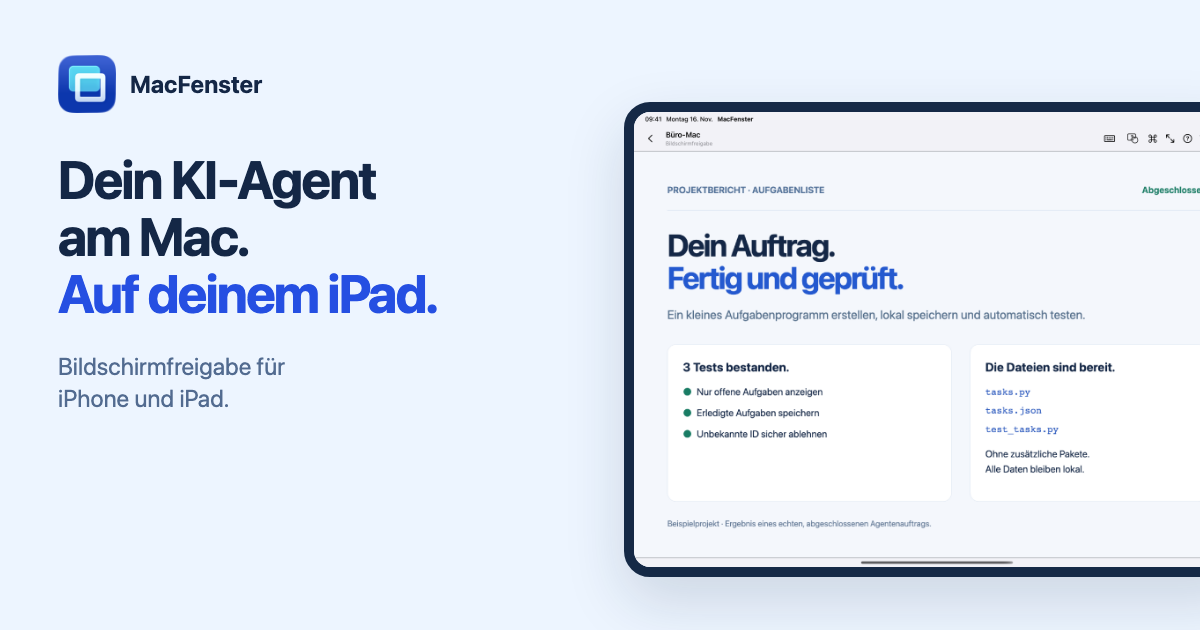
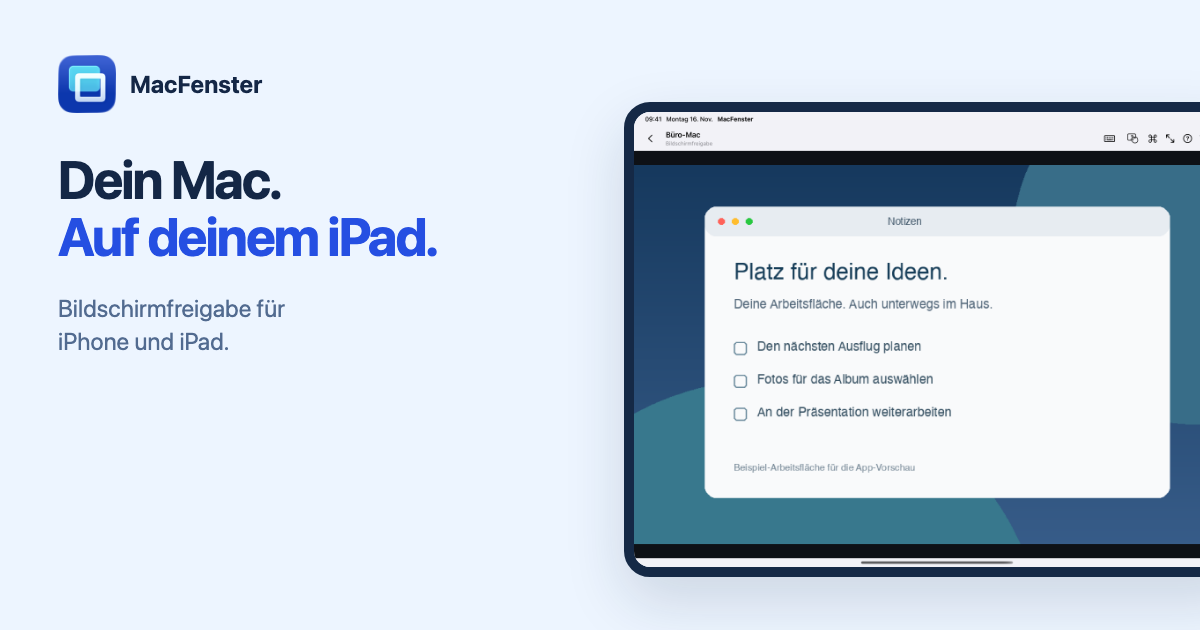
Focus MacFenster messaging on simple screen sharing

Changed region(s): [[0.5242, 0.2413, 1.0, 0.9048], [0.0308, 0.2413, 0.37, 0.6635], [0.8017, 0.573, 0.925, 0.754]]

diff --git a/index.html b/index.html
@@ -4,16 +4,16 @@
   <meta charset="utf-8">
   <meta name="viewport" content="width=device-width,initial-scale=1">
   <meta name="robots" content="noindex,nofollow">
-  <meta name="description" content="Deinen KI-Agenten am Mac im Blick behalten und seine Oberfläche bedienen – über Bildschirmfreigabe auf iPad und iPhone, direkt im gemeinsamen lokalen Netzwerk.">
-  <title>MacFenster – Dein KI-Agent am Mac. Auf deinem iPad.</title>
+  <meta name="description" content="Deinen Mac auf iPad und iPhone bedienen. MacFenster verbindet sich direkt mit der eingebauten Bildschirmfreigabe – im gemeinsamen lokalen Netzwerk.">
+  <title>MacFenster – Bildschirmfreigabe auf iPad und iPhone</title>
   <link rel="icon" href="assets/portal.png" type="image/png">
   <link rel="stylesheet" href="styles.css">
   <link rel="canonical" href="https://nature0ne.github.io/macfenster-website/">
   <meta property="og:type" content="website">
   <meta property="og:url" content="https://nature0ne.github.io/macfenster-website/">
-  <meta property="og:title" content="MacFenster – Dein KI-Agent am Mac. Auf deinem iPad.">
-  <meta property="og:description" content="Bediene deinen Mac mit iPad und iPhone – per Bildschirmfreigabe im selben Netzwerk.">
-  <meta property="og:image" content="https://nature0ne.github.io/macfenster-website/assets/share-card.png">
+  <meta property="og:title" content="MacFenster – Dein Mac auf iPad und iPhone.">
+  <meta property="og:description" content="Einfache Bildschirmfreigabe für deinen Mac. Direkt im selben Netzwerk mit Touch, Trackpad und Tastatur bedienen.">
+  <meta property="og:image" content="https://nature0ne.github.io/macfenster-website/assets/share-screen-sharing.png">
   <meta name="twitter:card" content="summary_large_image">
 </head>
 <body>
@@ -24,11 +24,11 @@
   </header>
 
   <main id="inhalt">
-    <section class="hero hero-ai wrap" aria-labelledby="hero-title">
+    <section class="hero hero-showcase wrap" aria-labelledby="hero-title">
       <div class="hero-copy">
         <p class="eyebrow"><span class="small-window" aria-hidden="true"></span>Bildschirmfreigabe für iPhone &amp; iPad</p>
-        <h1 id="hero-title">Dein KI-Agent<br>am Mac.<br><span>Auf deinem iPad.</span></h1>
-        <p class="lead">Dein Agent läuft am Mac. Lies Ergebnisse und bediene seine Oberfläche vom iPad oder iPhone – per Bildschirmfreigabe im selben Netzwerk.</p>
+        <h1 id="hero-title">Dein Mac.<br>Auf deinem<br> <span>iPad.</span></h1>
+        <p class="lead">Bediene deinen Mac vom iPad oder iPhone. Direkt mit seiner eingebauten Bildschirmfreigabe – im gemeinsamen lokalen Netzwerk.</p>
         <div class="hero-actions"><a class="button" href="#einrichten">So verbindest du dich <span aria-hidden="true">↓</span></a><a class="text-link" href="#arbeitsflaeche">Die Arbeitsfläche entdecken <span aria-hidden="true">↗</span></a></div>
         <p class="availability"><span aria-hidden="true"></span>App-Store-Veröffentlichung in Vorbereitung</p>
       </div>
@@ -42,7 +42,7 @@
     <div class="principles wrap" aria-label="Direkte Verbindung ohne zusätzlichen Dienst"><p>Die eingebaute<br><strong>Mac-Bildschirmfreigabe.</strong></p><p>Dein vorhandenes<br><strong>Mac-Benutzerkonto.</strong></p><p>Keine zusätzliche Mac-App.<br><strong>Kein Abo.</strong></p></div>
 
     <section class="workspace wrap" id="arbeitsflaeche" aria-labelledby="workspace-title">
-      <div><p class="eyebrow">Deine Apps laufen weiter am Mac</p><h2 id="workspace-title">Mehr Platz.<br>Auch für Ideen.</h2></div>
+      <div><p class="eyebrow">Mehr als ein kleineres Bild</p><h2 id="workspace-title">Ein Fenster.<br>Passend zu dir.</h2></div>
       <div class="workspace-copy"><p class="large-copy">Eine gut lesbare Arbeitsfläche auf deinem iPad. Oder ein Mac-Desktop, der sich mit deinem iPhone dreht.</p><p>Auf unterstützten Macs öffnet MacFenster einen nativen virtuellen Bildschirm. Er passt sich an die sichtbare Fläche deines Geräts an. Der physische Mac-Bildschirm bleibt separat.</p><p>Mit <strong>„Physischer Bildschirm“</strong> wechselst du zurück. Beim Umschalten verbindet sich die App kurz neu.</p><div class="window-pair" aria-hidden="true"><span></span><span></span></div></div>
     </section>
 
@@ -58,7 +58,6 @@
 
     <section class="questions wrap" aria-labelledby="questions-title"><div><p class="eyebrow">Gut zu wissen</p><h2 id="questions-title">Bevor du loslegst.</h2><p class="questions-intro">Noch eine Frage?<br><a class="text-link" href="https://nature0ne.github.io/macfenster-website/support.html">Zum Support <span aria-hidden="true">↗</span></a></p></div><div class="answers">
       <details><summary>Was brauche ich dafür?</summary><p>Ein iPhone oder iPad mit iOS beziehungsweise iPadOS 18 oder neuer und einen Mac mit aktivierter Bildschirmfreigabe. Beide Geräte müssen im selben lokalen Netzwerk sein. Videoübertragung und virtuelle Bildschirme erfordern Unterstützung durch den Mac. Die App-Oberfläche ist auf Deutsch.</p></details>
-      <details><summary>Ist in MacFenster ein KI-Agent enthalten?</summary><p>Dein KI-Agent läuft als eigenes Programm auf deinem Mac. MacFenster zeigt und bedient dessen Oberfläche über Bildschirmfreigabe, genau wie andere Mac-Apps. Ein KI-Dienst oder eine spezielle Agenten-Anbindung ist nicht enthalten.</p></details>
       <details><summary>Kann ich mich auch von unterwegs verbinden?</summary><p>MacFenster ist für das gemeinsame lokale Netzwerk gedacht. Ein Internetzugriff oder eine Verbindung zwischen verschiedenen Netzwerken wird nicht eingerichtet.</p></details>
       <details><summary>Wie werden meine Daten behandelt?</summary><p>Die Verbindung geht direkt zu deinem Mac. MacFenster zeichnet deinen Bildschirm nicht auf. Passwortspeicherung ist freiwillig und an dein Gerät gebunden. Der klassische ARD/RFB-Rückfall verschlüsselt nicht den gesamten Datenstrom – verwende deshalb ein vertrauenswürdiges Netzwerk.</p></details>
       <details><summary>Was passiert, wenn ich die App verlasse?</summary><p>Im Hintergrund endet die Sitzung. Du kannst dich anschließend erneut verbinden.</p></details>
